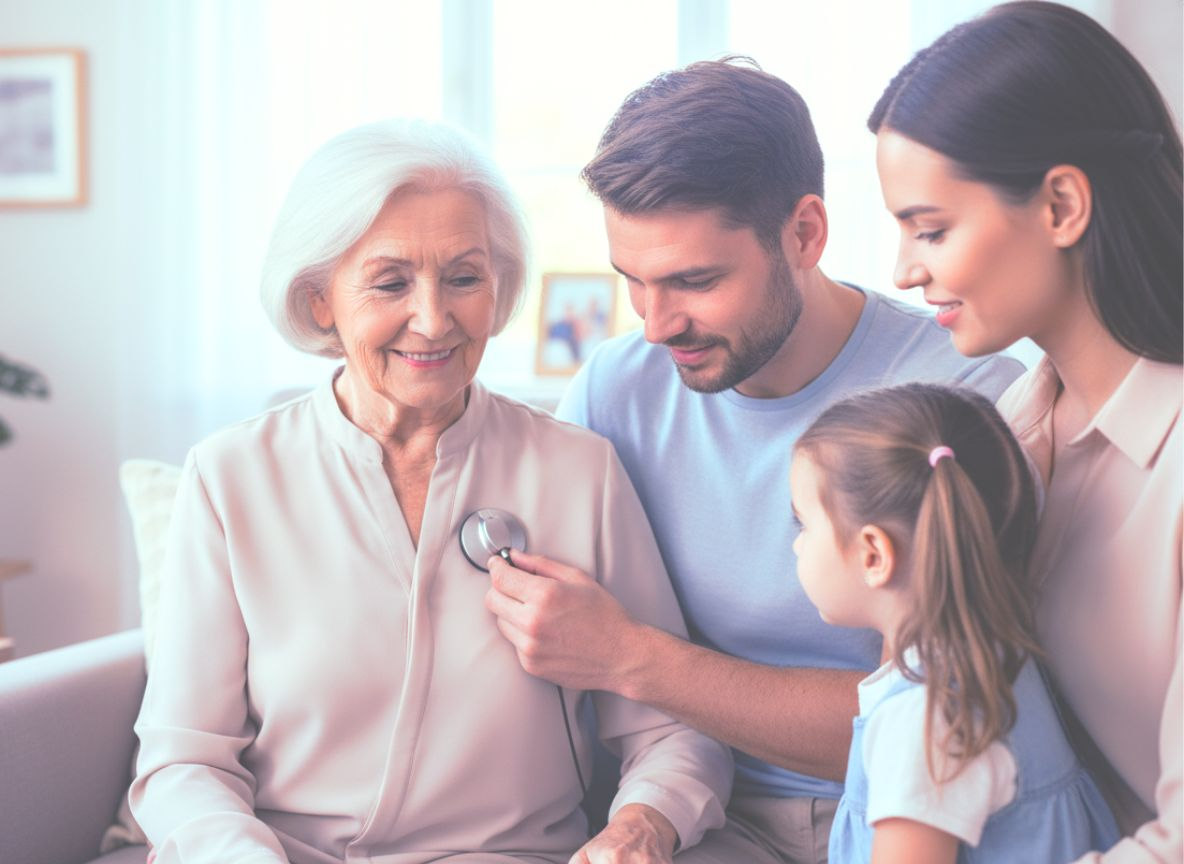
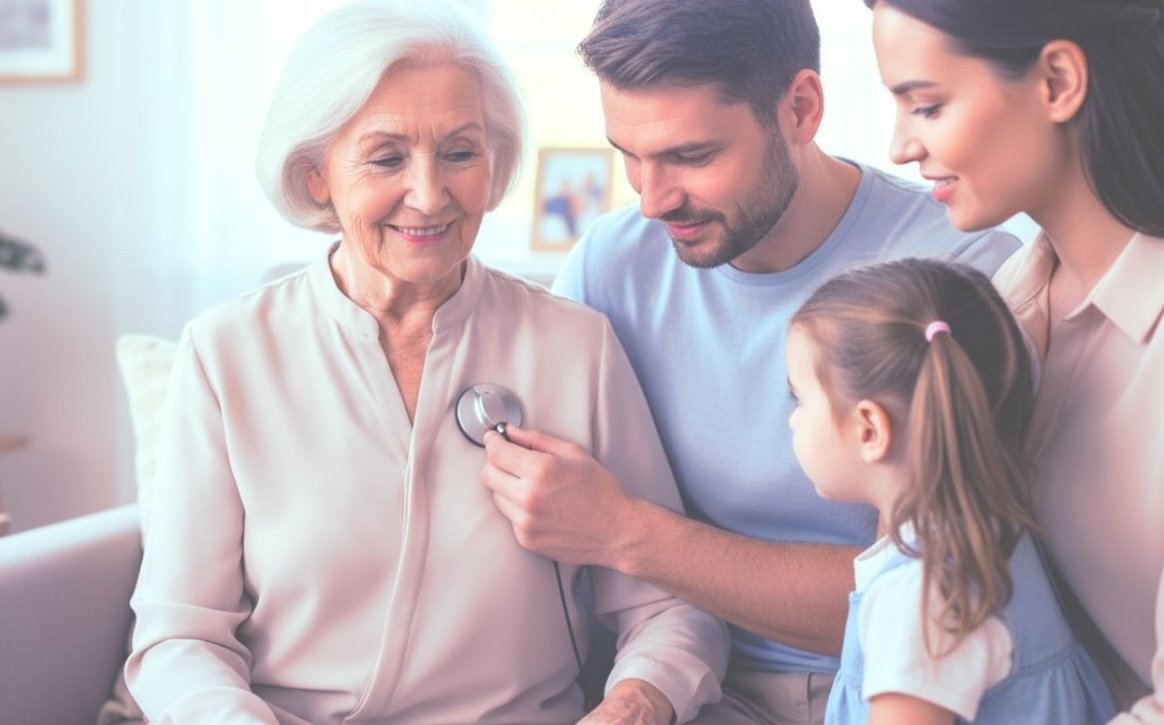
Refactor code structure for improved readability and maintainability

diff --git a/src/pages/Home.tsx b/src/pages/Home.tsx
@@ -8,14 +8,23 @@ const Home: React.FC = () => {
       <SEOHead {...pageMetadata.home} />
       <main className="bg-white">
       {/* Hero Section with Banner Image - Curved Bottom */}
-      <section className="relative min-h-[85vh] sm:min-h-[90vh] pt-16 sm:pt-24 overflow-hidden bg-gradient-to-br from-blue-50 via-white to-purple-50">
+      <section className="relative min-h-[75vh] sm:min-h-[70vh] md:min-h-[75vh] lg:min-h-screen pt-20 sm:pt-30 overflow-hidden bg-gradient-to-br from-blue-50 via-white to-purple-50">
         {/* Background Image with Overlay */}
         <div className="absolute inset-0 z-0">
           <div className="absolute inset-0 bg-gradient-to-r from-blue-900/80 via-blue-800/60 md:via-blue-800/40 to-transparent z-10"></div>
+          {/* Bottom Fade Gradient */}
+          <div className="absolute inset-x-0 bottom-0 h-42 sm:h-30 bg-linear-to-t from-white via-white/50 to-transparent z-10"></div>
+          {/* Mobile & iPad Background Image */}
+          <img 
+            src="/images/Eldercare_patientMobile.png" 
+            alt="Healthcare Professional with Patient" 
+            className="lg:hidden w-full h-full object-cover object-center"
+          />
+          {/* Desktop Background Image */}
           <img 
             src="/images/Eldercare_patient1.jpg" 
             alt="Healthcare Professional with Patient" 
-            className="w-full h-full object-cover object-[65%_center] sm:object-[75%_center] md:object-right"
+            className="hidden md:block w-full h-full object-cover object-right"
           />
         </div>
 
